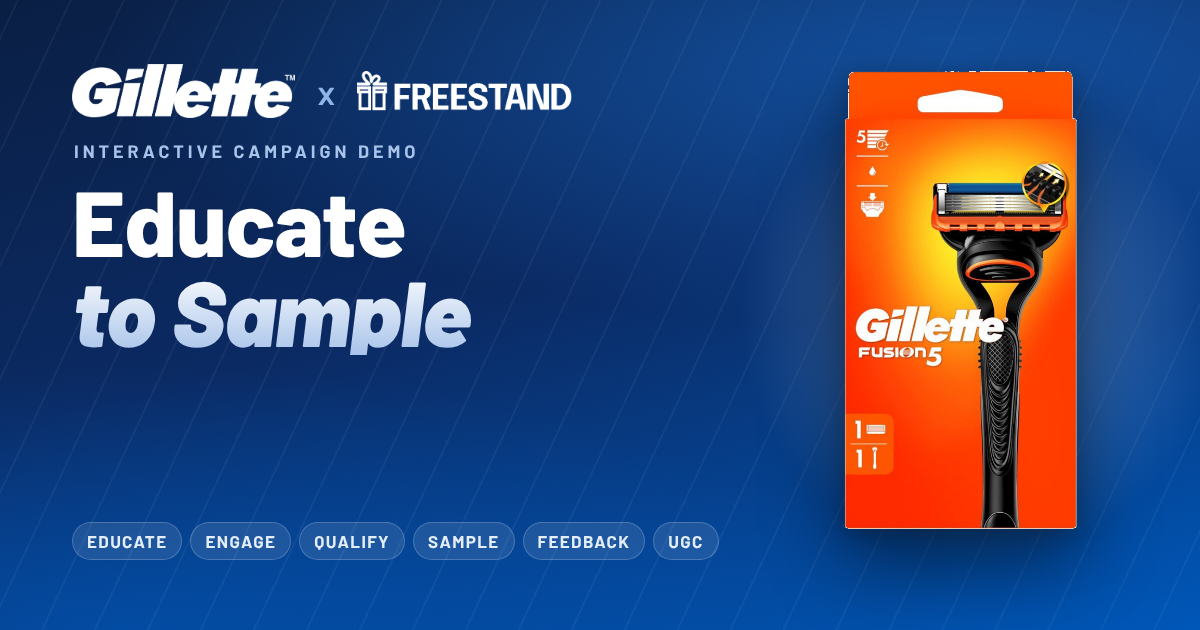
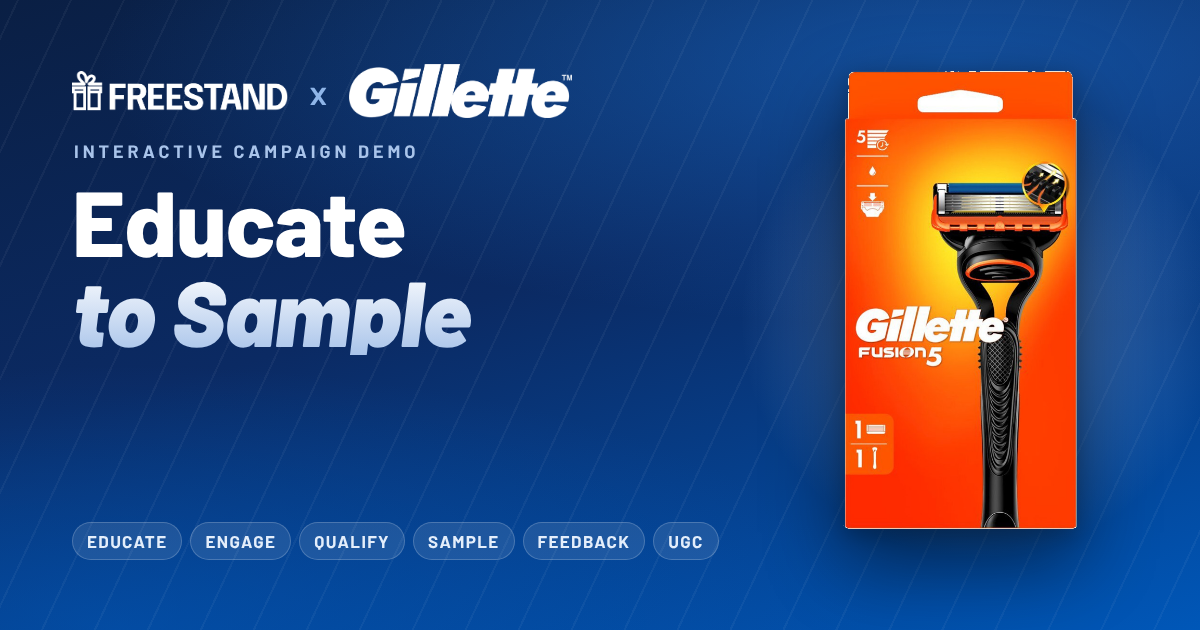
Rebuild closing flywheel as 8-node loop, CTA-only results screen
- Flywheel: Grab attention, Educate, Engage, Sample, Trial, Purchase,
  Advocate, Optimise media, clockwise from top, labels only; dashed ring
  closes the loop from node 8 back to node 1; active node cycles in sync
  with the moving dot.
- Centre copy: One loop. / Every turn gets cheaper. / Loop 1 data
  sharpens loop 2: lookalikes, creator ads, referrals.
- Results: removed Loop 1 heading, stat cards, rows and Restart link;
  only the centred Run this with FreeStand CTA remains.
- Brand order is FreeStand x Gillette in title, og tags, intro, closing,
  og-image and sample kit card; re-rendered affected creatives.

Claude-Session: https://claude.ai/code/session_01YXwEgpLYdmiWof5854h86q

Changed region(s): [[0.0617, 0.0905, 0.4933, 0.2111]]

diff --git a/index.html b/index.html
@@ -3,10 +3,10 @@
 <head>
 <meta charset="utf-8">
 <meta name="viewport" content="width=device-width, initial-scale=1">
-<title>Gillette Fusion5 x FreeStand: Educate to Sample</title>
+<title>FreeStand x Gillette Fusion5: Educate to Sample</title>
 <meta name="description" content="Interactive demo: how FreeStand turns Gillette India's first-shave education reel into qualified Fusion5 sampling, feedback and UGC.">
 <meta property="og:type" content="website">
-<meta property="og:title" content="Gillette x FreeStand: Educate to Sample">
+<meta property="og:title" content="FreeStand x Gillette: Educate to Sample">
 <meta property="og:description" content="Educate > Engage > Qualify > Sample > Feedback > UGC. A click-through demo for Gillette India.">
 <!-- og:image must be an absolute URL for link previews. Update if the Pages repo name differs. -->
 <meta property="og:image" content="https://freestandtech.github.io/gillette_demo/assets/og-image.png">
@@ -753,29 +753,26 @@ svg{display:block}
 
 /* closing loop */
 .loopc{padding:30px 48px}
-.loop{position:absolute;left:0;top:84px;width:700px;height:680px;overflow:visible}
+.loop{position:absolute;left:240px;top:40px;width:800px;height:709px;overflow:visible}
+.loopcta{position:absolute;left:50%;top:50%;transform:translate(-50%,-50%);font-size:20px;padding:14px 26px;white-space:nowrap;z-index:2}
 .ring1{fill:none;stroke:rgba(143,181,232,.18);stroke-width:26}
 .ring2{fill:none;stroke:#8FB5E8;stroke-width:2;stroke-dasharray:6 8;animation:dashMove 1.2s linear infinite}
 @keyframes dashMove{to{stroke-dashoffset:-14}}
 .ln-node{opacity:0;animation:fadeIn .5s both}
 @keyframes fadeIn{to{opacity:1}}
 .nbg{fill:#13306A;stroke:#8FB5E8;stroke-width:2}
-.nlast{fill:#fff;stroke:#fff;stroke-width:2}
+.nlast,.ln-node.on .nbg{fill:#fff;stroke:#fff;stroke-width:2;transition:fill .3s}
+.ln-node.on .nic{color:var(--navy)}
+.ln-node.on .nt{fill:#fff}
+.ln-node .nt{fill:#CFDBEE}
 .nic{width:28px;height:28px;color:#fff;display:flex;align-items:center;justify-content:center}
 .nic svg{width:24px;height:24px}
 .nic.dark{color:var(--navy)}
-.nt{fill:#fff;font-family:'Barlow',sans-serif;font-weight:800;font-size:19px}
+.nt{fill:#fff;font-family:'Barlow',sans-serif;font-weight:800;font-size:21px}
 .nn{fill:#A9C4EA;font-size:14px;font-family:'Roboto',sans-serif}
 .ct1{fill:#fff;font-family:'Barlow',sans-serif;font-weight:800;font-size:40px}
 .ct2{fill:#A9C4EA;font-family:'Barlow',sans-serif;font-weight:800;font-style:italic;font-size:28px}
 .ct3{fill:#CFDBEE;font-size:14.5px;font-family:'Roboto',sans-serif}
-.lside{position:absolute;right:44px;top:110px;width:420px}
-.lside .eb{font-size:11px;letter-spacing:2.5px;text-transform:uppercase;font-weight:700}
-.keeps{margin-top:16px;display:flex;flex-direction:column;gap:8px}
-.keeps div{display:flex;align-items:center;gap:10px;font-size:13.5px;color:#CFDBEE;padding:9px 12px;border-radius:10px;background:rgba(255,255,255,.05)}
-.keeps svg{width:18px;height:18px;color:#8FB5E8}
-.keeps b{color:#fff}
-.loopc .cta-row{margin-top:20px}
 /* FreeStand Campaign Analytics dashboard */
 .dflow{display:grid;grid-template-columns:repeat(4,1fr);gap:10px}
 .dflow .dcard{display:flex;gap:10px;align-items:flex-start}
@@ -1416,7 +1413,7 @@ function introScreen() {
     [I.gift, 'Sample the attentive', 'Only they see the free Fusion5'],
   ];
   return `<div class="intro">
-    <div class="ctop"><div class="eb">Gillette Fusion5 x FreeStand</div><div class="logos"><img class="g" src="${A('gillette-logo-white')}" alt=""><span>x</span><img class="f" src="${A('freestand-logo-white')}" alt=""></div></div>
+    <div class="ctop"><div class="eb">FreeStand x Gillette Fusion5</div><div class="logos"><img class="f" src="${A('freestand-logo-white')}" alt=""><span>x</span><img class="g" src="${A('gillette-logo-white')}" alt=""></div></div>
     <div class="in-grid">
       <div>
         <h1 class="fi">Every man remembers his first razor.<br><em>Make sure it’s a Gillette.</em></h1>
@@ -1606,61 +1603,54 @@ function profileCol() {
 
 /* closing: the whole engine as a loop */
 function closingScreen() {
+  const cart = P('<circle cx="9" cy="21" r="1"/><circle cx="20" cy="21" r="1"/><path d="M1 1h4l2.7 13.4a2 2 0 0 0 2 1.6h9.7a2 2 0 0 0 2-1.6L23 6H6"/>');
+  const megaphone = P('<path d="M3 11l18-8v18L3 13z"/><path d="M11.6 16.8a3 3 0 1 1-5.8-1.6"/>');
+  const razor = P('<rect x="5" y="2" width="14" height="5" rx="1.5"/><path d="M12 7v14"/><path d="M10 12h4M10 16h4"/>');
   const nodes = [
-    ['Ad 1: Educate', lakh(N.reach) + ' reached', I.playO],
-    ['Reactions', lakh(N.engaged) + ' engaged', I.users],
-    ['Ad 2: Free sample', inr(N.landing) + ' visits', I.gift],
-    ['Claim + qualify', inr(N.approved) + ' approved', I.shield],
-    ['Deliver', inr(N.delivered) + ' in 2.8 days', I.truck],
-    ['Feedback', inr(N.feedback) + ' replies', I.msg],
-    ['UGC', inr(N.creators) + ' creators', I.reels],
-    ['Analyse', '14 data points each', I.bars],
-    ['Shave It Forward', '21L new learners', I.refresh],
+    ['Grab attention', I.eye],
+    ['Educate', I.playO],
+    ['Engage', I.heart],
+    ['Sample', I.gift],
+    ['Trial', razor],
+    ['Purchase', cart],
+    ['Advocate', megaphone],
+    ['Optimise media', I.target],
   ];
   const cx = 330, cy = 330, r = 236;
   const pos = i => { const a = (-90 + i * 360 / nodes.length) * Math.PI / 180; return [cx + r * Math.cos(a), cy + r * Math.sin(a), Math.cos(a), Math.sin(a)]; };
-  const svgNodes = nodes.map(([t, n, ic], i) => {
+  const svgNodes = nodes.map(([t, ic], i) => {
     const [x, y, ca, sa] = pos(i);
-    const lx = x + ca * 62, ly = y + sa * 54;
+    const lx = x + ca * 58, ly = y + sa * 56 + 7;
     const anchor = Math.abs(ca) < .2 ? 'middle' : ca > 0 ? 'start' : 'end';
-    const last = i === nodes.length - 1;
-    return `<g class="ln-node" style="animation-delay:${.2 + i * .15}s">
-      <circle cx="${x}" cy="${y}" r="38" class="${last ? 'nlast' : 'nbg'}"/>
-      <foreignObject x="${x - 14}" y="${y - 14}" width="28" height="28"><div class="nic ${last ? 'dark' : ''}">${ic}</div></foreignObject>
-      <text x="${lx}" y="${ly - 4}" text-anchor="${anchor}" class="nt">${i + 1}. ${t}</text>
-      <text x="${lx}" y="${ly + 15}" text-anchor="${anchor}" class="nn">${n}</text></g>`;
+    return `<g class="ln-node" id="ln${i}" style="animation-delay:${.2 + i * .12}s">
+      <circle cx="${x}" cy="${y}" r="38" class="nbg"/>
+      <foreignObject x="${x - 14}" y="${y - 14}" width="28" height="28"><div class="nic">${ic}</div></foreignObject>
+      <text x="${lx}" y="${ly}" text-anchor="${anchor}" class="nt">${t}</text></g>`;
   }).join('');
   return `<div class="close loopc">
-    <div class="ctop"><div class="eb">The Gillette x FreeStand sampling engine</div><div class="logos"><img class="g" src="${A('gillette-logo-white')}" alt=""><span>x</span><img class="f" src="${A('freestand-logo-white')}" alt=""></div></div>
+    <div class="ctop"><div class="eb">The FreeStand x Gillette sampling engine</div><div class="logos"><img class="f" src="${A('freestand-logo-white')}" alt=""><span>x</span><img class="g" src="${A('gillette-logo-white')}" alt=""></div></div>
     <svg class="loop" viewBox="-110 -60 880 780">
       <circle cx="${cx}" cy="${cy}" r="${r}" class="ring1"/>
       <circle cx="${cx}" cy="${cy}" r="${r}" class="ring2"/>
-      <circle r="7" fill="#fff"><animateMotion dur="9s" repeatCount="indefinite" path="M${cx},${cy - r} A${r},${r} 0 1,1 ${cx - .1},${cy - r}"/></circle>
+      <circle r="7" fill="#fff"><animateMotion dur="8.8s" repeatCount="indefinite" path="M${cx},${cy - r} A${r},${r} 0 1,1 ${cx - .1},${cy - r}"/></circle>
       ${svgNodes}
-      <text x="${cx}" y="${cy - 34}" text-anchor="middle" class="ct1">One loop.</text>
-      <text x="${cx}" y="${cy + 6}" text-anchor="middle" class="ct2">Every turn starts warmer.</text>
-      <text x="${cx}" y="${cy + 44}" text-anchor="middle" class="ct3">Loop 1 data launches loop 2:</text>
-      <text x="${cx}" y="${cy + 66}" text-anchor="middle" class="ct3">lookalikes, creator ads, referrals.</text>
+      <text x="${cx}" y="${cy - 128}" text-anchor="middle" class="ct1">One loop.</text>
+      <text x="${cx}" y="${cy - 90}" text-anchor="middle" class="ct2">Every turn gets cheaper.</text>
+      <text x="${cx}" y="${cy - 56}" text-anchor="middle" class="ct3">Loop 1 data sharpens loop 2:</text>
+      <text x="${cx}" y="${cy - 35}" text-anchor="middle" class="ct3">lookalikes, creator ads, referrals.</text>
     </svg>
-    <div class="lside">
-      <div class="eb" style="color:#7F93B5">Loop 1 results</div>
-      <div class="ckpi" style="margin-top:12px">
-        <div class="fi" style="animation-delay:.5s"><b class="cv"><span data-count="3412">0</span></b><span class="cl">Bad claims blocked</span><span class="cs">Duplicates, under-18, out-of-area</span></div>
-        <div class="fi" style="animation-delay:.6s"><b class="cv"><span data-count="${N.conquest}" data-fmt="pct">0</span></b><span class="cl">Conquest share</span><span class="cs">Kits to non-Gillette users</span></div>
-        <div class="fi" style="animation-delay:.7s"><b class="cv"><span data-count="${N.intentYes}" data-fmt="pct">0</span></b><span class="cl">Purchase intent</span><span class="cs">Will buy Fusion5</span></div>
-        <div class="fi" style="animation-delay:.8s"><b class="cv"><span data-count="${N.creators}">0</span></b><span class="cl">UGC pieces</span><span class="cs">${lakh(N.ugcViews)} organic views</span></div>
-      </div>
-      <div class="keeps fi" style="animation-delay:1s">
-        <div>${I.users}<span><b>${inr(N.completed)}</b> first-party profiles</span></div>
-        <div>${I.whatsapp}<span><b>${inr(N.delivered)}</b> WhatsApp opt-ins</span></div>
-        <div>${I.msg}<span><b>${inr(N.feedback)}</b> reviews in CRM</span></div>
-      </div>
-      <div class="cta-row fi" style="animation-delay:1.2s">
-        <button class="bigcta" id="runCta">Run this with <img src="${A('freestand-logo')}" alt="FreeStand">${I.arrowR}</button>
-        <button class="ghost" id="restart">${I.refresh}Restart</button>
-      </div>
-    </div>
+    <button class="bigcta loopcta fi" id="runCta" style="animation-delay:1s">Run this with <img src="${A('freestand-logo')}" alt="FreeStand">${I.arrowR}</button>
   </div>`;
+}
+function afterClosing(root) {
+  // active node follows the dot around the loop (8.8s per turn, 1.1s per node)
+  let i = 0;
+  const step = () => {
+    root.querySelectorAll('.ln-node').forEach((g, j) => g.classList.toggle('on', j === i));
+    i = (i + 1) % 8;
+    later(1100, step);
+  };
+  step();
 }
 
 /* ═══════════════ FreeStand Campaign Analytics dashboard ═══════════════ */
@@ -1892,8 +1882,7 @@ function render() {
     if (s.modal) showModal(s);
   } else if (s.app === 'close') {
     stageEl.innerHTML = closingScreen();
-    animateCounters(stageEl); growBars(stageEl);
-    $('#restart').onclick = () => go(0);
+    animateCounters(stageEl); growBars(stageEl); afterClosing(stageEl);
     $('#runCta').onclick = () => window.open('https://freestand.in', '_blank', 'noopener');
   } else {
     let phoneHtml = '';

diff --git a/assets/src/og-image.html b/assets/src/og-image.html
@@ -18,7 +18,7 @@
 </style></head>
 <body>
 <div class="canvas bg-gillette streaks">
-  <div class="logos"><img class="g" src="../gillette-logo-white.png" alt=""><span class="x">x</span><img class="f" src="../freestand-logo-white.png" alt=""></div>
+  <div class="logos"><img class="f" src="../freestand-logo-white.png" alt=""><span class="x">x</span><img class="g" src="../gillette-logo-white.png" alt=""></div>
   <div class="eyebrow">Interactive campaign demo</div>
   <div class="title display">Educate<em>to Sample</em></div>
   <div class="steps"><span>EDUCATE</span><span>ENGAGE</span><span>QUALIFY</span><span>SAMPLE</span><span>FEEDBACK</span><span>UGC</span></div>

diff --git a/assets/src/sample-kit.html b/assets/src/sample-kit.html
@@ -75,9 +75,9 @@
     <div class="card">
       <div>
         <div class="t">Your First Shave Kit.</div>
-        <div class="s">Courtesy of Gillette x FreeStand.<br>Wet. Lather. Short, gentle strokes.</div>
+        <div class="s">Courtesy of FreeStand x Gillette.<br>Wet. Lather. Short, gentle strokes.</div>
       </div>
-      <div class="row"><img class="g" src="../gillette-logo.png" alt=""><span class="x">x</span><img class="f" src="../freestand-logo.png" alt=""></div>
+      <div class="row"><img class="f" src="../freestand-logo.png" alt=""><span class="x">x</span><img class="g" src="../gillette-logo.png" alt=""></div>
     </div>
   </div>
 </div>

diff --git a/README.md b/README.md
@@ -1,8 +1,8 @@
-# Gillette x FreeStand: Educate to Sample
+# FreeStand x Gillette: Educate to Sample
 
 A click-through pitch demo for Gillette India (P&G). It follows Rohan, 19, a college student in Pune, from a Gillette first-shave education reel to a qualified free Gillette Fusion5 sample (shave-only use case), WhatsApp feedback and a UGC Reel.
 
-The phone on the left shows what Rohan sees. The middle panel shows what Meta and FreeStand are doing at that moment. The right column is the first-party profile FreeStand builds, which stays anonymous until Rohan claims. Step 8 is the FreeStand Campaign Analytics dashboard (overview + data collected, live analytics, data visualisation, statistical analysis). Step 9 ("Shave It Forward") is the next campaign built from the data, and the last screen shows the whole engine as a loop.
+The phone on the left shows what Rohan sees. The middle panel shows what Meta and FreeStand are doing at that moment. The right column is the first-party profile FreeStand builds, which stays anonymous until Rohan claims. Step 8 is the FreeStand Campaign Analytics dashboard (overview + data collected, live analytics, data visualisation, statistical analysis). Step 9 ("Shave It Forward") is the next campaign built from the data, and the last screen shows the engine as an 8-node loop (Grab attention, Educate, Engage, Sample, Trial, Purchase, Advocate, Optimise media) with the "Run this with FreeStand" CTA.
 
 ## Run locally
 Any static server works:
@@ -17,8 +17,8 @@ Opening `index.html` straight from disk also works.
 ## Present
 - **Next:** `→`, `Space`, `Enter`, the Next button, or a tap on the phone.
 - **Back:** `←`, or the Back button.
-- **Jump:** `Home` / `End`, the 7 step chips at the top, or the numbered sub-steps at the bottom.
-- **Deep link:** `index.html#s=12` opens sub-step 12 (sub-step 1 is the intro, 25-28 are the FreeStand dashboard, 31 is the engine loop). The last stage you viewed is remembered.
+- **Jump:** `Home` / `End`, the 9 step chips at the top, or the numbered sub-steps at the bottom.
+- **Deep link:** `index.html#s=12` opens sub-step 12 (sub-step 1 is the intro, 25-28 are the FreeStand dashboard, 31 is the engine loop and CTA). The last stage you viewed is remembered.
 - The stage scales to fit the window. It is designed at 1280x820 and reads well at 1366x768 and above.
 
 ## Deploy on GitHub Pages
